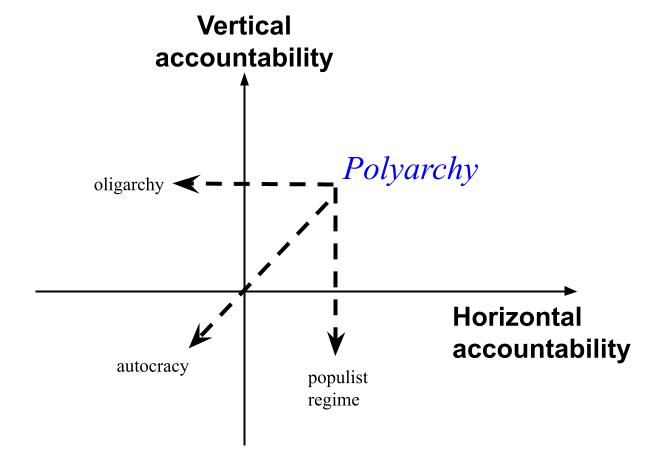
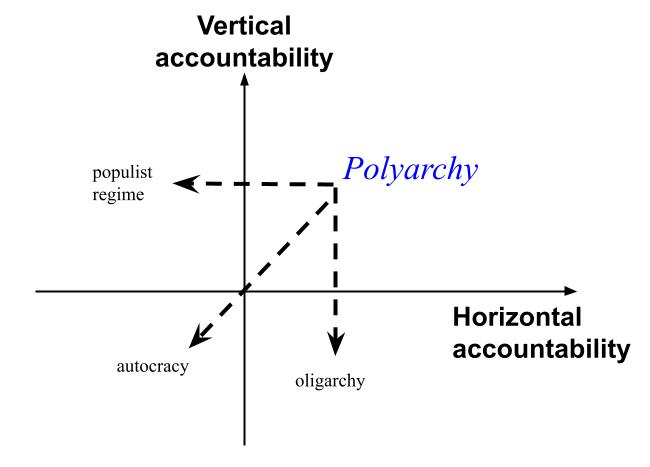
update

Changed region(s): [[0.4615, 0.7794, 0.5846, 0.8694], [0.1231, 0.3597, 0.2462, 0.4497]]

diff --git a/GLOA400-populism.html b/GLOA400-populism.html
@@ -208,15 +208,15 @@ background-size: cover
 
 ---
 
-# Populism (Arugay &amp; Slater 2019)
+# Populism 
 
 .center[
-![]("https://github.com/textvulture/textvulture.github.io/blob/master/images/Philippines.jpg?raw=true")
+![]("https://github.com/textvulture/textvulture.github.io/blob/master/images/backsliding_concept.jpg?raw=true")
 ]
 
 ---
 
-# The Philippines: A breeding ground for populism
+# The Philippines: A breeding ground for populism &lt;br&gt;(Arugay &amp; Slater 2019)
 
 &lt;br&gt;
 &lt;br&gt;
